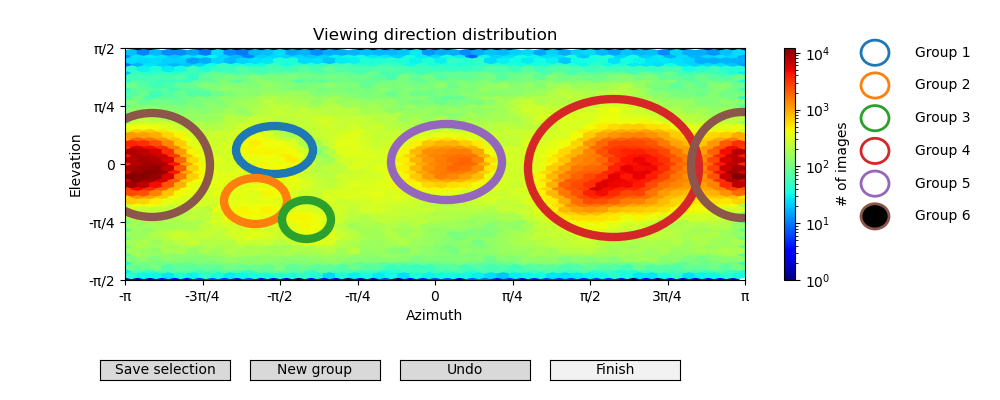
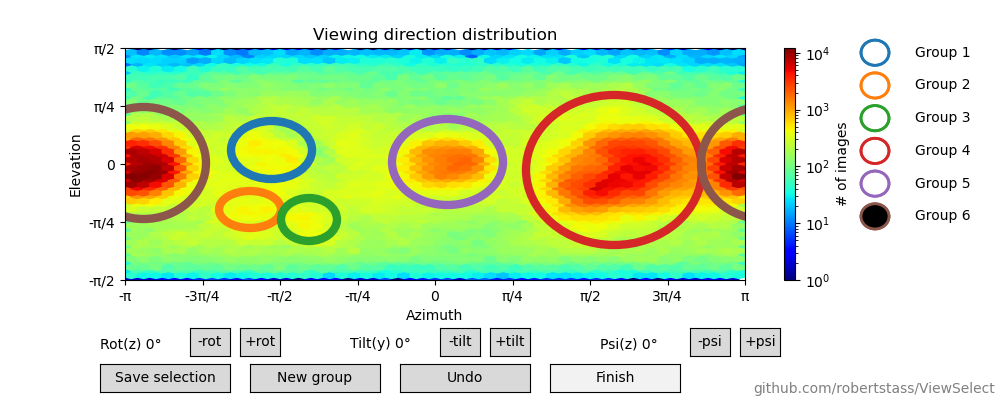
colormap options added + small cosmetic changes.

diff --git a/view_select.py b/view_select.py
@@ -3,34 +3,40 @@ import os
 import sys
 import math
 import numpy as np
-import threading
 from threading import Thread, Event
-import argparse
 import queue
+import argparse
 import copy
 import time
 
-import matplotlib as mpl
-from cycler import cycler
+
+from matplotlib import MatplotlibDeprecationWarning
 from matplotlib import pyplot as plt
-from matplotlib.widgets import  EllipseSelector, Slider, Button, RadioButtons, TextBox
+from matplotlib.widgets import EllipseSelector, RadioButtons
 from matplotlib.transforms import Transform
 import matplotlib.patches as patches
 from matplotlib.path import Path
 from matplotlib.transforms import Affine2D
 from matplotlib.lines import Line2D
+try:
+    from matplotlib import colormaps as cm
+except AttributeError:
+    from matplotlib import cm as cm
+
 
 import tkinter as tk
 from tkinter import scrolledtext
 from matplotlib.backends.backend_tkagg import FigureCanvasTkAgg
 from tkinter import filedialog
 
-from cryosparc.tools import CryoSPARC
+#from cryosparc.tools import CryoSPARC
 from cryosparc.dataset import Dataset
 import yaml
 
 import warnings
-warnings.filterwarnings("ignore", category=mpl.MatplotlibDeprecationWarning)
+warnings.filterwarnings("ignore", category=MatplotlibDeprecationWarning)
+
+#import matplotlib as mpl
 #mpl.use("Qt5Agg")
 
 
@@ -84,6 +90,21 @@ class ArgumentParser():
             However, "View Select" allows the user to select particles from the plot that can then be used for further 2D classification
             and/or particle picking with tools like Topaz.
             
+            Further details:
+            To use, draw one or more circles on the plot. If you click "New group" you can then draw more circles that are ultimately
+            saved into separate files. Use this to select different views. If two groups overlap each other, the overlapping particles
+            default to lower numbered groups. A separate file is saved which contains the remaining unselected particles. Click finish
+            to save the output. If you click finish without any selections, an image of the plot is saved.
+            
+            Re-import .csg files into cryosparc with the Import Result Group job.
+
+            The values of rot, tilt and psi refer to euler angles in the relion convention, which are sequential rotations around the
+            z, y and z axis respectively. These euler angles have the effect of rotating the 3D map before generating the viewing
+            direction plot. It is helpful for selecting hotspots that have become distorted at the top and bottom of the plot.
+
+            The colors used can be customized for accessibility or aesthetic reasons using the --plot_cmap and --group_cmap command
+            line options.
+            
             Written by Robert Stass, Bowden group, STRUBI/OPIC (2024)
             
             ''')
@@ -92,6 +113,8 @@ class ArgumentParser():
         addr = required.add_argument
 
         add('--dont_save_image', action='store_true', help='Stop the script outputting an image at the end.')
+        add('--plot_cmap', default=default_plot_cmap, help='Matplotlib colormap for the hexbin plot.')
+        add('--group_cmap', default=default_group_cmap, help='Matplotlib colormap for the selection group colors.')
         add('input_dataset_path', nargs='?', default=None, help='File path of an exported cryosparc .csg or .cs file. Can leave blank to open a file in the GUI.')
 
         '''
@@ -112,16 +135,20 @@ class ArgumentParser():
         if not args.input_dataset_path == None:
             if not os.path.exists(args.input_dataset_path):
                 self.error("Input file '%s' not found." % args.input_dataset_path)
+        try:
+            cm.get_cmap(args.plot_cmap)
+        except ValueError:
+            self.error("Cannot load colormap with name '%s'." % args.plot_cmap)
+        try:
+            cm.get_cmap(args.group_cmap)
+        except ValueError:
+            self.error("Cannot load colormap with name '%s'." % args.group_cmap)
 
 
 
-
-
-
-
-
-
-
+#Defaults
+default_plot_cmap = 'jet'
+default_group_cmap = 'tab10'
 
 
 ######### Main script ##########
@@ -446,8 +473,6 @@ def key_press_event(event):
             print_text('EllipseSelector rotation not supported in this version of matplotlib.')
 
 def select_callback(eclick, erelease):
-    #x1, y1 = eclick.xdata, eclick.ydata
-    #x2, y2 = erelease.xdata, erelease.ydata
     p.as_button.set_active(True)
 
 def rotate_ellipse_left(step=10):
@@ -469,7 +494,7 @@ def add_selection(event):
         if not ((x1 == x2) and (y1 == y2)):
             ellipse_triplet = [None, None, None]
             ellipse_triplet_extents = [p.selector.offset_ellipse1_extents, (x1, x2, y1, y2), p.selector.offset_ellipse2_extents]
-            #ell = mpl.patches.Ellipse((x1+(x2-x1)/2.,y1+(y2-y1)/2.),x2-x1,y2-y1,angle=angle, fill=None, edgecolor=p.group_cmap(current_group), linewidth=6)
+            #ell = patches.Ellipse((x1+(x2-x1)/2.,y1+(y2-y1)/2.),x2-x1,y2-y1,angle=angle, fill=None, edgecolor=p.group_cmap(current_group), linewidth=6)
             for i,(ellipse, extents) in enumerate(zip(ellipse_triplet, ellipse_triplet_extents)):
                 #offset = (i-1)*p.selector.offset
                 if extents is not None:
@@ -906,16 +931,17 @@ def generate_plot(cs, p, plot_data_queue, file_picker_queue):
     try:
         if cs.dataset_path == None:
             print_text('Open input file. (you can also pass a file directly on the command line).')
-        cs.dataset_path = file_picker_queue.get()
-        particles_dset = cs.load_dataset()
-        print_text('Calculating plot...')
-        p.az,p.el = calculate_plot(particles_dset)
-        plot_data_queue.put("Plot ready")
         while not p.stop_threads:
             try:
                 queue_readout = file_picker_queue.get_nowait()
                 if queue_readout == 'Rotate plot':
                     rotate_plot(p, plot_data_queue)
+                else:
+                    cs.dataset_path = queue_readout
+                    particles_dset = cs.load_dataset()
+                    print_text('Calculating plot...')
+                    p.az,p.el = calculate_plot(particles_dset)
+                    plot_data_queue.put("Plot ready")
             except queue.Empty:
                 time.sleep(0.1)
     except Exception as ex:
@@ -929,7 +955,7 @@ def plot_data(p, plot_data_queue):
         if queue_readout == "Plot ready" or queue_readout == 'Plot rotated':
             print_text('Plotting...') if queue_readout == 'Plot ready' else None
             old_hb = p.hb if hasattr(p,'hb') else None
-            p.hb = p.ax.hexbin(p.az, p.el, gridsize=50, bins='log', cmap='jet')
+            p.hb = p.ax.hexbin(p.az, p.el, gridsize=50, bins='log', cmap=p.plot_cmap)
             if hasattr(p,'cb'):
                 p.cb.remove()
             old_hb.remove() if old_hb != None else None
@@ -1018,11 +1044,9 @@ if __name__ == "__main__":
     image_string = '_plot'
     blank_image_string = '_blank_plot'
     save_image = not args.dont_save_image
-    colormap_name = 'tab10'
-    try:
-        group_cmap = mpl.colormaps.get_cmap(colormap_name)
-    except AttributeError:
-        group_cmap = mpl.cm.get_cmap(colormap_name)
+    group_cmap_name = args.group_cmap #'tab10'
+    plot_cmap_name = args.plot_cmap #'jet'
+    group_cmap = cm.get_cmap(group_cmap_name)
     
     #Start GUI
     root = tk.Tk()
@@ -1064,13 +1088,12 @@ if __name__ == "__main__":
     p.tilt = 0.0
     p.psi = 0.0
     p.angle_step = 90
+    p.plot_cmap = plot_cmap_name
 
     p.selector = OffsetEllipseSelector(np.pi*2, ax, select_callback, useblit=True, button=[1], minspanx=5, minspany=5, spancoords='pixels',
         props={'facecolor': group_cmap(0), 'edgecolor': group_cmap(0), 'alpha': 0.3, 'fill': True},
         ignore_event_outside=False, interactive=True)
-    #p.selector.state_modifier_keys["rotate"] = 'alt'
     supports_rotation = True if hasattr(p.selector, 'rotation') else False
-    #p.selector.
 
     p.ellipse_groups = []
     p.ellipse_groups.append([])
@@ -1080,58 +1103,60 @@ if __name__ == "__main__":
 
     # Buttons
     plt.subplots_adjust(bottom=0.3)
-    as_button_ax = fig.add_axes([0.1, 0.025, 0.13, 0.07])  # [left, bottom, width, height]
+    as_button_ax = fig.add_axes([0.1, 0.02, 0.13, 0.07])  # [left, bottom, width, height]
     p.as_button = plt.Button(as_button_ax, 'Save selection')
     p.as_button.on_clicked(add_selection)
     p.as_button.set_active(False)
 
-    ag_button_ax = fig.add_axes([0.25, 0.025, 0.13, 0.07])  # [left, bottom, width, height]
+    ag_button_ax = fig.add_axes([0.25, 0.02, 0.13, 0.07])  # [left, bottom, width, height]
     p.ag_button = plt.Button(ag_button_ax, 'New group')
     p.ag_button.on_clicked(add_selection_group)
     p.ag_button.set_active(False)
 
-    u_button_ax = fig.add_axes([0.40, 0.025, 0.13, 0.07])  # [left, bottom, width, height]
+    u_button_ax = fig.add_axes([0.40, 0.02, 0.13, 0.07])  # [left, bottom, width, height]
     p.u_button = plt.Button(u_button_ax, 'Undo')
     p.u_button.on_clicked(undo)
     p.u_button.set_active(False)
 
-    f_button_ax = fig.add_axes([0.55, 0.025, 0.13, 0.07])  # [left, bottom, width, height]
+    f_button_ax = fig.add_axes([0.55, 0.02, 0.13, 0.07])  # [left, bottom, width, height]
     p.f_button = plt.Button(f_button_ax, 'Finish')
     p.f_button.on_clicked(finish)
     p.f_button.set_active(False)
 
-    rot_neg_button_ax = fig.add_axes([0.19, 0.12, 0.04, 0.07])  # [left, bottom, width, height]
+    github_text = plt.text(0.995, 0.01, "github.com/robertstass/ViewSelect", color='grey', fontsize='medium', horizontalalignment='right', verticalalignment='bottom', transform=fig.transFigure)
+
+    rot_neg_button_ax = fig.add_axes([0.19, 0.11, 0.04, 0.07])  # [left, bottom, width, height]
     p.rot_neg_button = plt.Button(rot_neg_button_ax, '-rot')
     p.rot_neg_button.on_clicked(lambda event: rotate_plot_button_event(event, 'rot', -p.angle_step, file_picker_queue, p))
     p.rot_neg_button.set_active(False)
 
-    rot_pos_button_ax = fig.add_axes([0.24, 0.12, 0.04, 0.07])  # [left, bottom, width, height]
+    rot_pos_button_ax = fig.add_axes([0.24, 0.11, 0.04, 0.07])  # [left, bottom, width, height]
     p.rot_pos_button = plt.Button(rot_pos_button_ax, '+rot')
     p.rot_pos_button.on_clicked(lambda event: rotate_plot_button_event(event, 'rot', p.angle_step, file_picker_queue, p))
     p.rot_pos_button.set_active(False)
-    p.rot_text = plt.text(0.1, 0.15, 'Rot(z) %d°' % p.rot, horizontalalignment='left', verticalalignment='center', transform=fig.transFigure)
+    p.rot_text = plt.text(0.1, 0.14, 'Rot(z) %d°' % p.rot, horizontalalignment='left', verticalalignment='center', transform=fig.transFigure)
 
-    tilt_neg_button_ax = fig.add_axes([0.44, 0.12, 0.04, 0.07])  # [left, bottom, width, height]
+    tilt_neg_button_ax = fig.add_axes([0.44, 0.11, 0.04, 0.07])  # [left, bottom, width, height]
     p.tilt_neg_button = plt.Button(tilt_neg_button_ax, '-tilt')
     p.tilt_neg_button.on_clicked(lambda event: rotate_plot_button_event(event, 'tilt', -p.angle_step, file_picker_queue, p))
     p.tilt_neg_button.set_active(False)
 
-    tilt_pos_button_ax = fig.add_axes([0.49, 0.12, 0.04, 0.07])  # [left, bottom, width, height]
+    tilt_pos_button_ax = fig.add_axes([0.49, 0.11, 0.04, 0.07])  # [left, bottom, width, height]
     p.tilt_pos_button = plt.Button(tilt_pos_button_ax, '+tilt')
     p.tilt_pos_button.on_clicked(lambda event: rotate_plot_button_event(event, 'tilt', p.angle_step, file_picker_queue, p))
     p.tilt_pos_button.set_active(False)
-    p.tilt_text = plt.text(0.35, 0.15, 'Tilt(y) %d°' % p.tilt, horizontalalignment='left', verticalalignment='center', transform=fig.transFigure)
+    p.tilt_text = plt.text(0.35, 0.14, 'Tilt(y) %d°' % p.tilt, horizontalalignment='left', verticalalignment='center', transform=fig.transFigure)
 
-    psi_neg_button_ax = fig.add_axes([0.69, 0.12, 0.04, 0.07])  # [left, bottom, width, height]
+    psi_neg_button_ax = fig.add_axes([0.69, 0.11, 0.04, 0.07])  # [left, bottom, width, height]
     p.psi_neg_button = plt.Button(psi_neg_button_ax, '-psi')
     p.psi_neg_button.on_clicked(lambda event: rotate_plot_button_event(event, 'psi', -p.angle_step, file_picker_queue, p))
     p.psi_neg_button.set_active(False)
 
-    psi_pos_button_ax = fig.add_axes([0.74, 0.12, 0.04, 0.07])  # [left, bottom, width, height]
+    psi_pos_button_ax = fig.add_axes([0.74, 0.11, 0.04, 0.07])  # [left, bottom, width, height]
     p.psi_pos_button = plt.Button(psi_pos_button_ax, '+psi')
     p.psi_pos_button.on_clicked(lambda event: rotate_plot_button_event(event, 'psi', p.angle_step, file_picker_queue, p))
     p.psi_pos_button.set_active(False)
-    p.psi_text = plt.text(0.6, 0.15, 'Psi(z) %d°' % p.psi, horizontalalignment='left', verticalalignment='center', transform=fig.transFigure)
+    p.psi_text = plt.text(0.6, 0.14, 'Psi(z) %d°' % p.psi, horizontalalignment='left', verticalalignment='center', transform=fig.transFigure)
 
     p.euler_buttons = [p.rot_neg_button, p.rot_pos_button, p.tilt_neg_button, p.tilt_pos_button, p.psi_neg_button, p.psi_pos_button]
     
